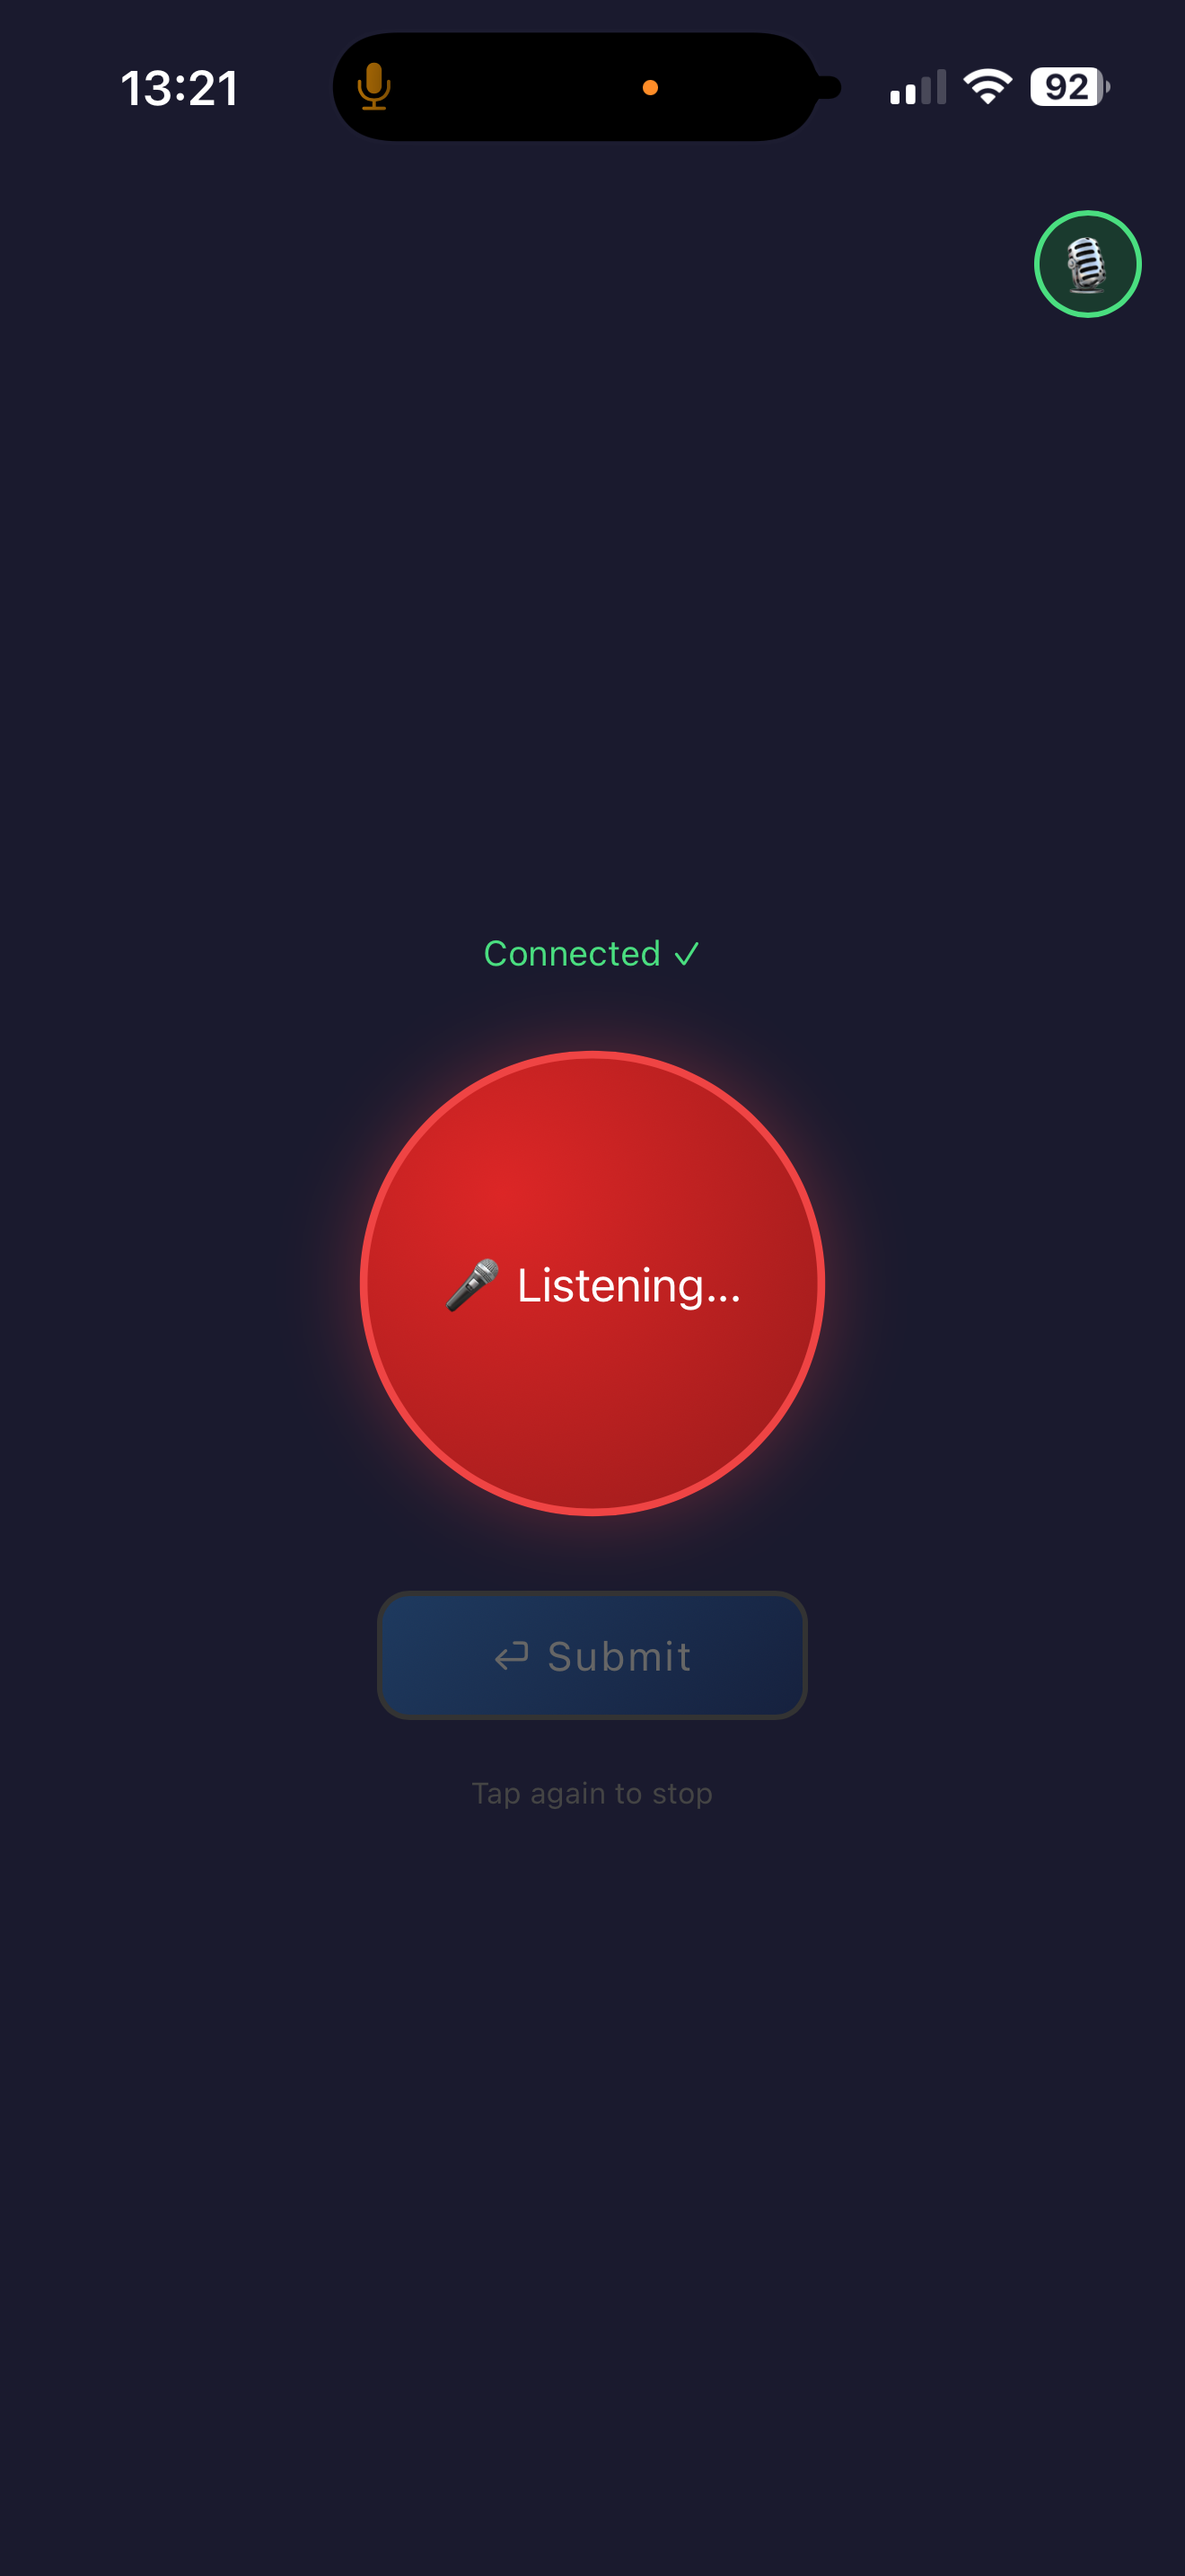
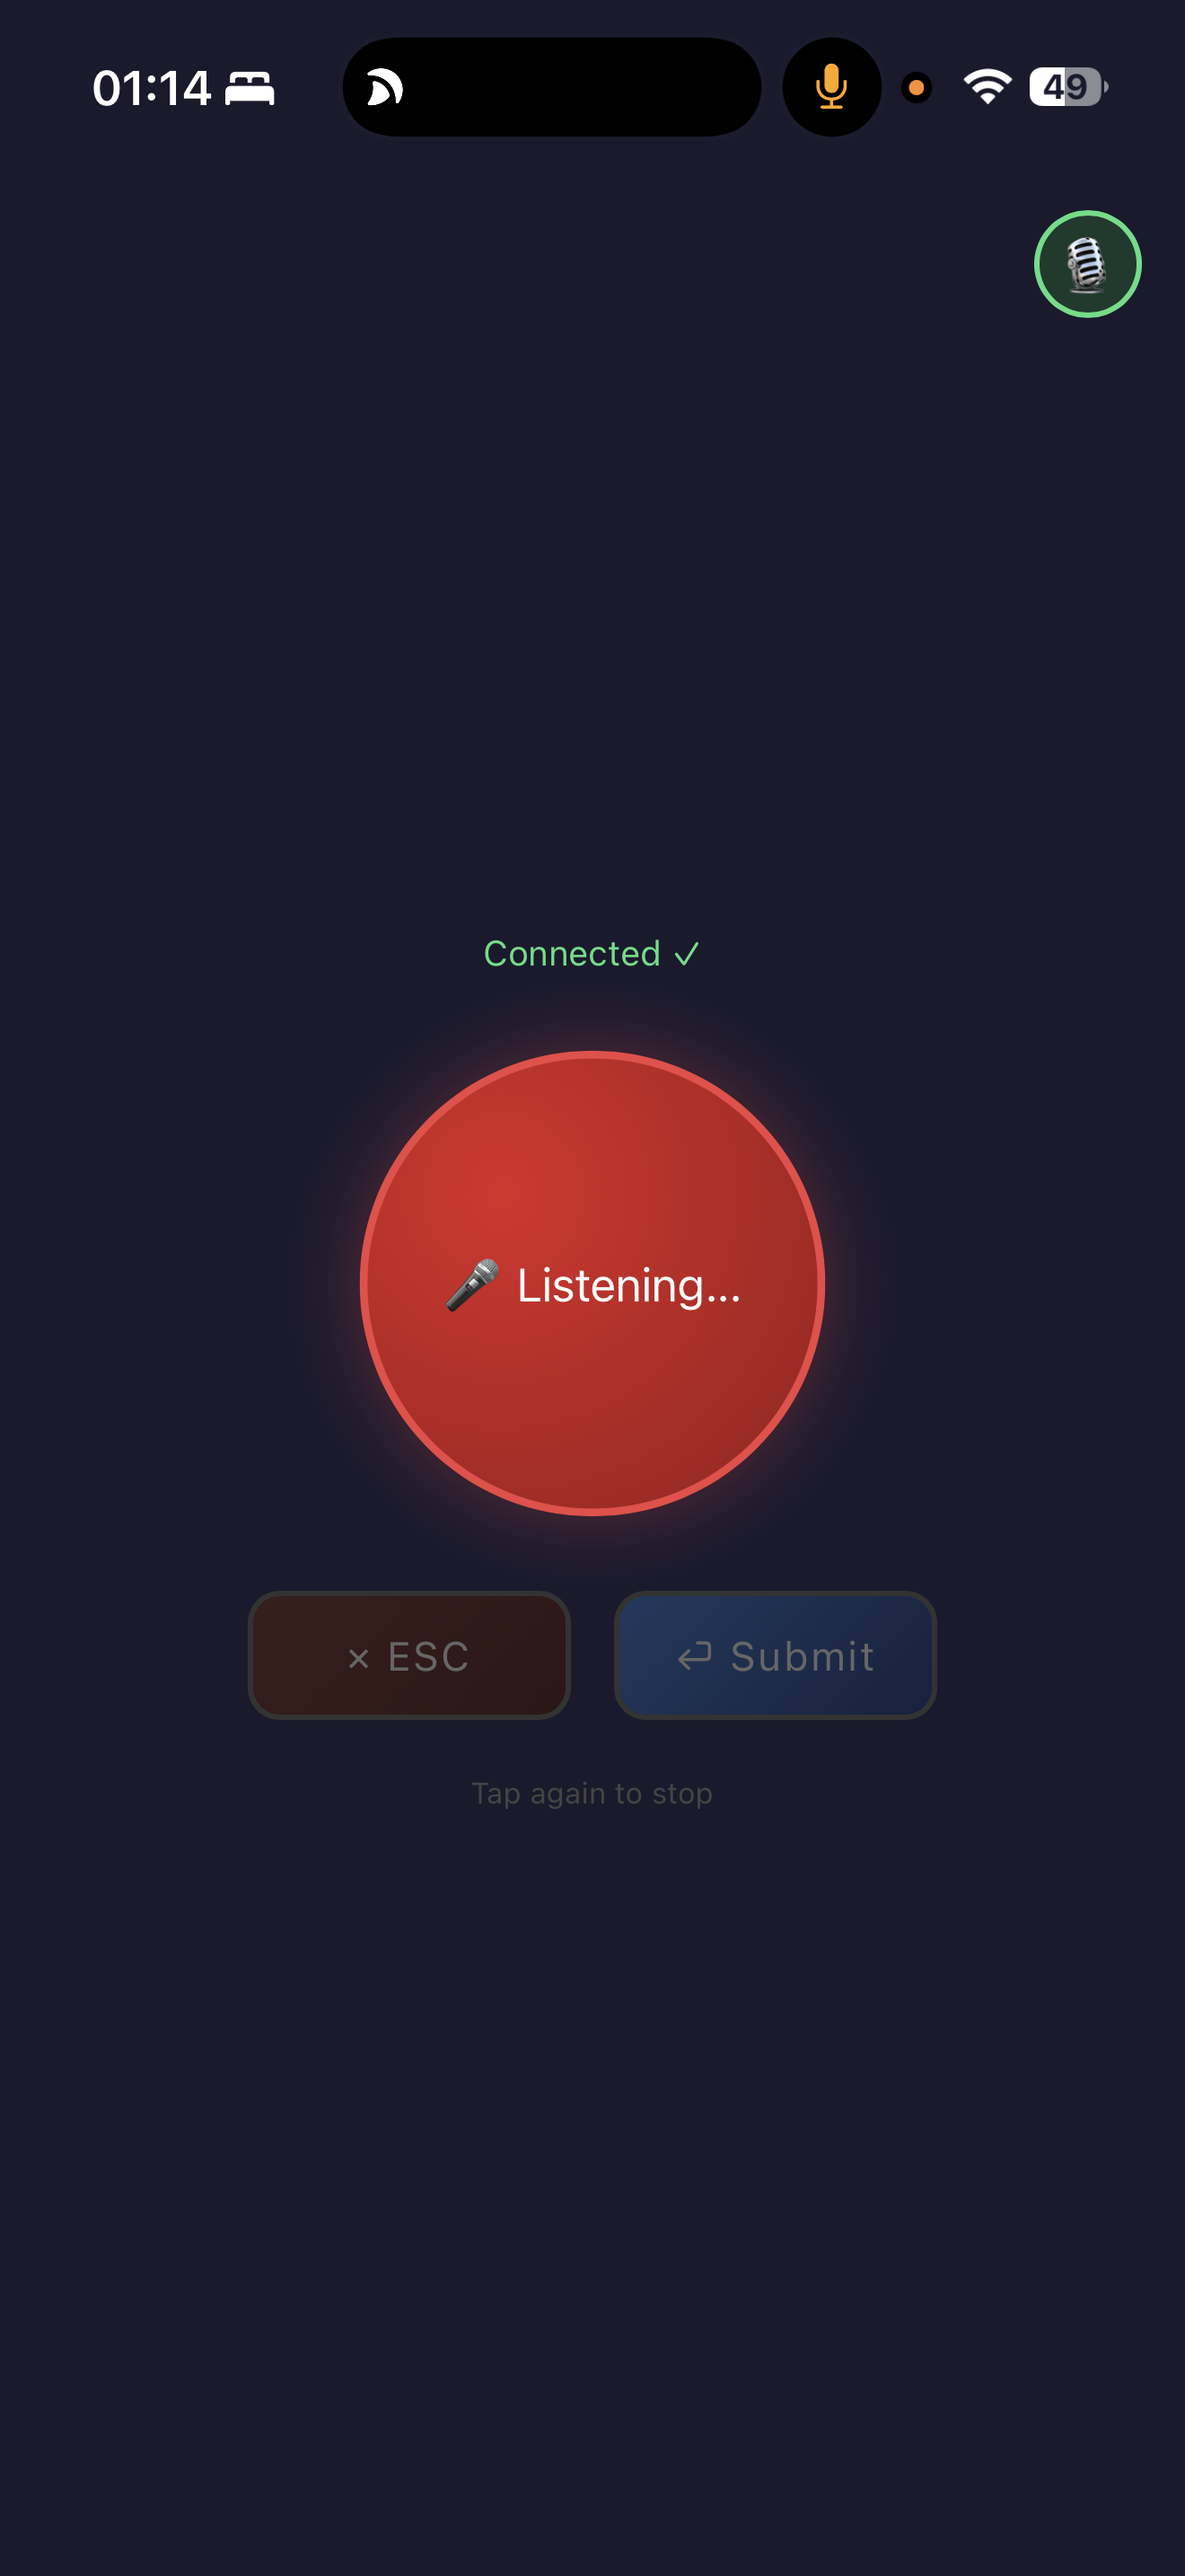
feat: add ESC button to cancel Typeless transcription
- Add escape command (HID 0x29) to vhid_key.c
- Add /key/escape route to server.js
- Add ESC button to frontend, alongside Submit button
- ESC press resets recording state (Listening → Tap to Talk)
- Update screenshots with new 3-button UI
- Update README with ESC documentation

diff --git a/public/index.html b/public/index.html
@@ -38,14 +38,18 @@
   }
   #talk-btn.off { opacity: 0.25; pointer-events: none; }
 
-  #enter-btn {
-    width: 160px; height: 48px; border-radius: 12px;
+  .bottom-btns { display: flex; gap: 16px; }
+
+  #enter-btn, #esc-btn {
+    width: 120px; height: 48px; border-radius: 12px;
     border: 2px solid #333;
-    background: linear-gradient(135deg, #1e3a5f, #16213e);
     display: flex; align-items: center; justify-content: center;
     font-size: 15px; color: #666; cursor: pointer;
     transition: all 0.12s; touch-action: manipulation;
     letter-spacing: 1px;
+  }
+  #enter-btn {
+    background: linear-gradient(135deg, #1e3a5f, #16213e);
   }
   #enter-btn:active {
     background: linear-gradient(135deg, #2563eb, #1d4ed8);
@@ -54,6 +58,17 @@
     box-shadow: 0 0 20px rgba(59,130,246,0.3);
   }
   #enter-btn.off { opacity: 0.25; pointer-events: none; }
+
+  #esc-btn {
+    background: linear-gradient(135deg, #3a1e1e, #2e1616);
+  }
+  #esc-btn:active {
+    background: linear-gradient(135deg, #dc2626, #b91c1c);
+    border-color: #ef4444; color: #fff;
+    transform: scale(0.95);
+    box-shadow: 0 0 20px rgba(239,68,68,0.3);
+  }
+  #esc-btn.off { opacity: 0.25; pointer-events: none; }
 
   #hint { margin-top: 20px; font-size: 11px; color: #444; text-align: center; }
 
@@ -73,7 +88,10 @@
 <div id="status">Loading...</div>
 <div class="buttons">
   <div id="talk-btn" class="off">Tap to Talk</div>
-  <div id="enter-btn" class="off">⏎ Submit</div>
+  <div class="bottom-btns">
+    <div id="esc-btn" class="off">✕ ESC</div>
+    <div id="enter-btn" class="off">⏎ Submit</div>
+  </div>
 </div>
 <div id="hint">Tap 🎙 to enable microphone</div>
 <script>
@@ -91,6 +109,7 @@ async function checkServer() {
       $('status').textContent = 'Connected ✓';
       $('status').className = 'ok';
       $('enter-btn').classList.remove('off');
+      $('esc-btn').classList.remove('off');
       if (micActive) $('talk-btn').classList.remove('off');
       return;
     }
@@ -186,6 +205,22 @@ $('enter-btn').addEventListener('click', async () => {
   setTimeout(() => {
     $('enter-btn').style.background = '';
     $('enter-btn').style.color = '';
+  }, 200);
+});
+
+// Escape button — always resets recording state
+$('esc-btn').addEventListener('click', async () => {
+  if (!connected) return;
+  recording = false;
+  $('talk-btn').classList.remove('active');
+  $('talk-btn').textContent = 'Tap to Talk';
+  $('hint').textContent = 'Tap to start voice input';
+  $('esc-btn').style.background = 'linear-gradient(135deg, #dc2626, #b91c1c)';
+  $('esc-btn').style.color = '#fff';
+  await fetch('/key/escape', { method: 'POST' });
+  setTimeout(() => {
+    $('esc-btn').style.background = '';
+    $('esc-btn').style.color = '';
   }, 200);
 });
 

diff --git a/server.js b/server.js
@@ -89,6 +89,12 @@ server.on('request', (req, res) => {
     res.writeHead(200); res.end('ok');
     return;
   }
+  if (req.url === '/key/escape' && req.method === 'POST') {
+    console.log('[Key] ESCAPE');
+    if (vhidProcess && vhidProcess.stdin.writable) vhidProcess.stdin.write('escape\n');
+    res.writeHead(200); res.end('ok');
+    return;
+  }
   if (req.url === '/audio' && req.method === 'POST') {
     const chunks = [];
     req.on('data', chunk => chunks.push(chunk));

diff --git a/vhid_key.c b/vhid_key.c
@@ -115,6 +115,13 @@ int main(void) {
             send_report(0, 0);
             fprintf(stderr, "[vhid_key] ENTER\n");
             fflush(stderr);
+        } else if (strncmp(line, "escape", 6) == 0) {
+            // Escape key: HID usage 0x29, no modifier
+            send_report(0, 0x29);
+            usleep(100000); // 100ms hold
+            send_report(0, 0);
+            fprintf(stderr, "[vhid_key] ESCAPE\n");
+            fflush(stderr);
         }
     }
 

diff --git a/README.md b/README.md
@@ -14,6 +14,7 @@ Open a webpage on your phone, tap a button, and:
 1. **A hardware-level keypress** is sent to your Mac (via Karabiner VirtualHID)
 2. **Your phone's microphone audio** streams to your Mac and plays through a USB audio device
 3. **A Submit (Enter) key** can be sent with a separate button — useful for confirming voice input
+4. **An Escape key** can cancel/discard the current transcription mid-speech
 
 This was built to remotely trigger [Typeless](https://typeless.so) (a voice-to-text app) from anywhere in the house — or even remotely via [Tailscale](https://tailscale.com). Typeless only accepts hardware HID keypresses and physical audio devices, so this project uses two tricks to satisfy those requirements.
 
@@ -25,8 +26,9 @@ Phone Browser                          Mac
 │  Web page (HTTPS) │   HTTP POST     │  Node.js Server (:2000)      │
 │                  │ ─────────────→   │                              │
 │  [🎤 Tap to Talk] │  /key/start     │  vhid_key → Karabiner VHID  │
-│                  │  /key/stop       │  → macOS treats as real key  │
-│                  │                  │                              │
+│  [⏎ Submit]      │  /key/stop      │  → macOS treats as real key  │
+│  [✕ ESC]         │  /key/enter     │                              │
+│                  │  /key/escape    │                              │
 │  getUserMedia()  │  /audio (PCM)    │  sox → USB sound card output │
 │  ScriptProcessor │ ─────────────→   │  → loopback cable            │
 │                  │                  │  → USB sound card input      │
@@ -156,6 +158,8 @@ Common alternatives:
 | Right Control | 0x10 | 0xE4 |
 | Left Command | 0x08 | 0xE3 |
 | F5 | 0x00 | 0x3E |
+| Escape | 0x00 | 0x29 |
+| Enter/Return | 0x00 | 0x28 |
 
 ### Change the port
 Edit `server.js`:
